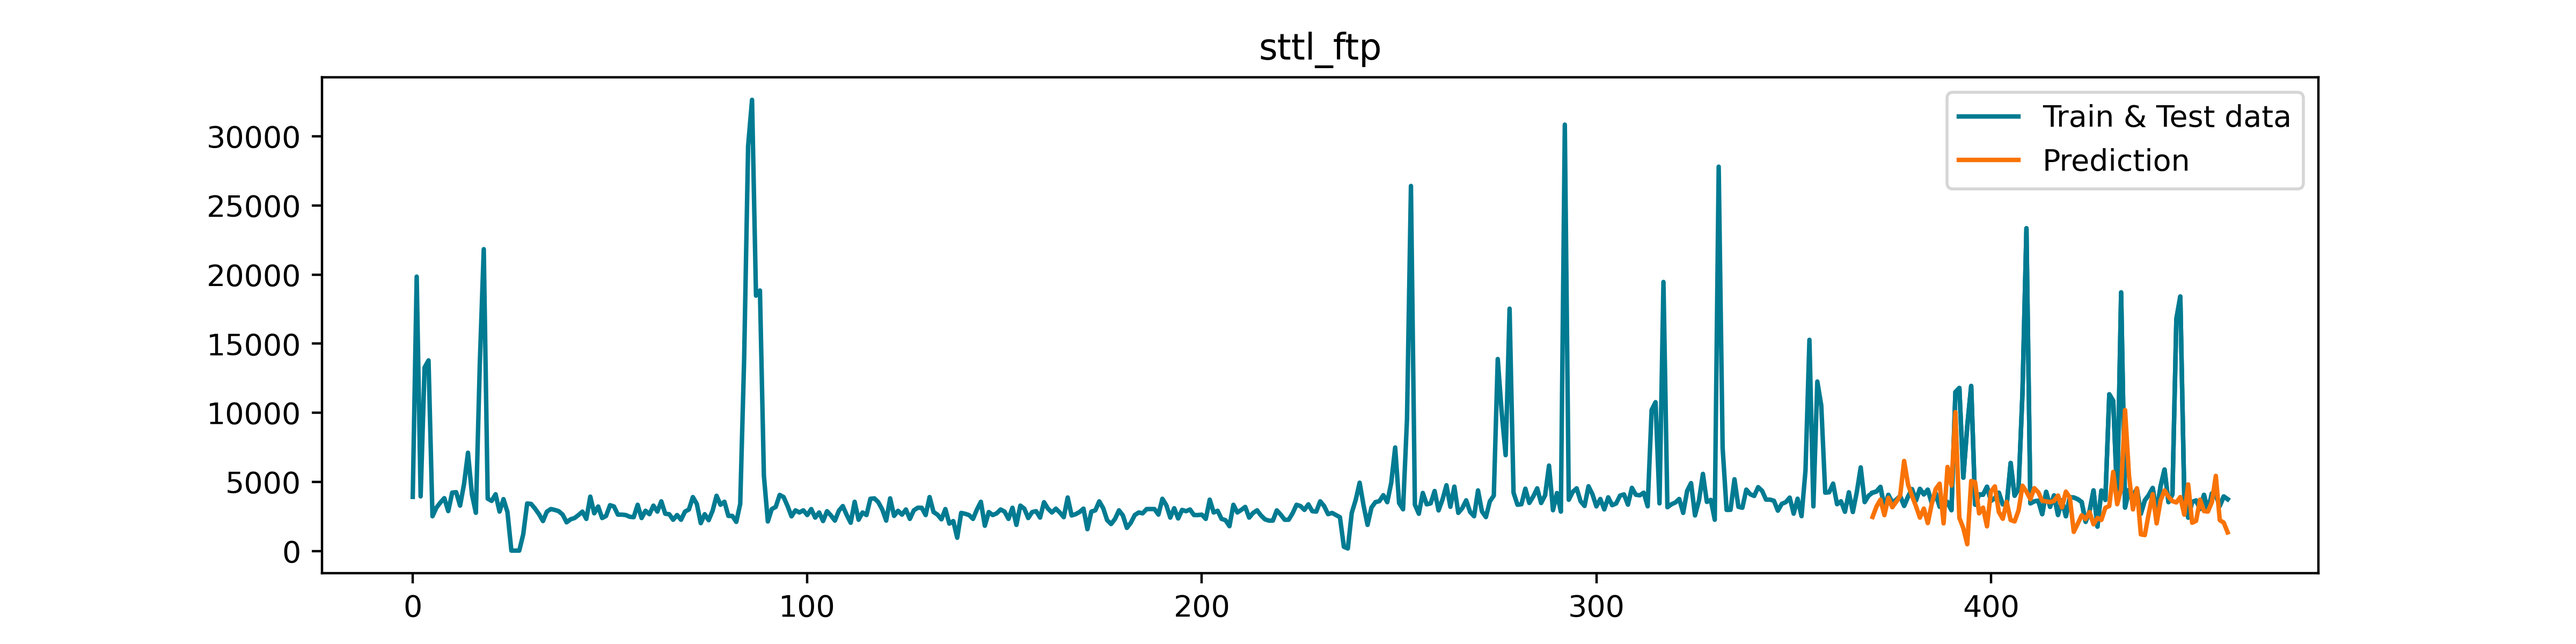
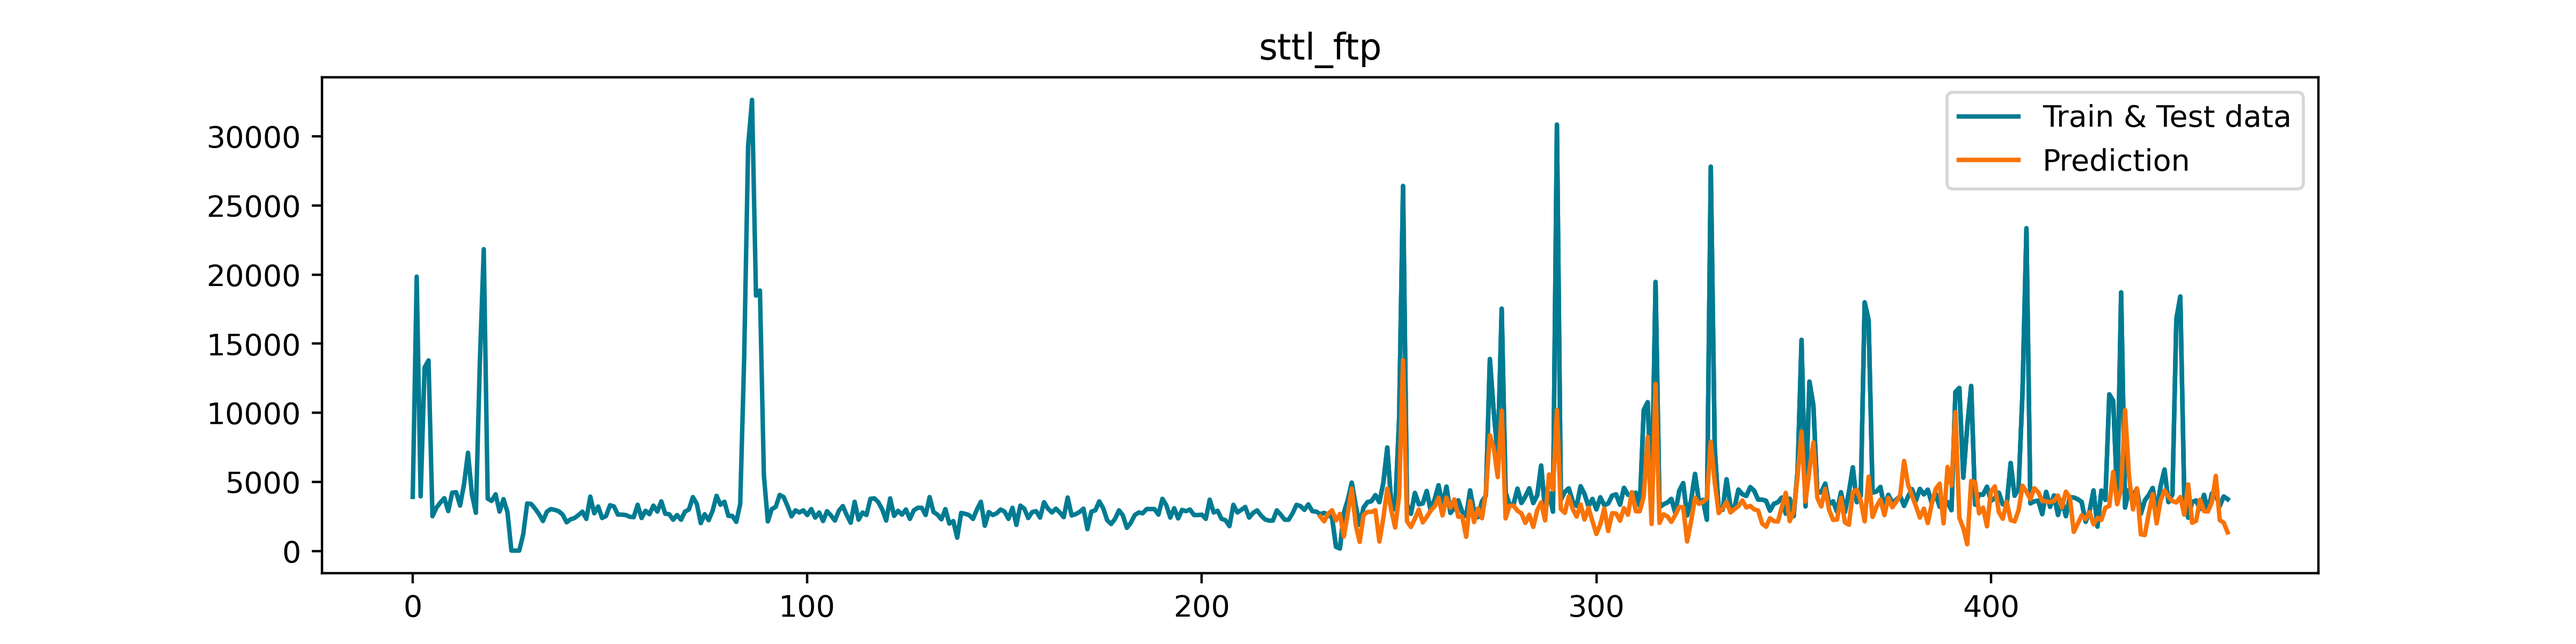
update test split value

Changed region(s): [[0.5, 0.185, 0.75, 0.8633]]

diff --git a/src/data/handle_time_series.py b/src/data/handle_time_series.py
@@ -10,10 +10,11 @@ from sklearn.preprocessing import MinMaxScaler, StandardScaler
 from statsmodels.tsa.seasonal import STL
 
 class TimeseriesHandler:
-    def __init__(self, use_real_data, window_size, data_split):
+    def __init__(self, use_real_data, window_size, data_split, test_data_split):
         self.minmax_scaler = MinMaxScaler(feature_range=(0, 1))
         self.stand_scaler = StandardScaler()
         self.data_split = data_split
+        self.test_data_split = test_data_split
 
         if use_real_data:
             self.df = pd.read_csv(const.REAL_DATASET, sep='\t', usecols=const.REAL_DATASET_FEATURES)
@@ -36,8 +37,8 @@ class TimeseriesHandler:
         self.df = self.stand_scaler.fit_transform(self.df)
 
 
-    def split_dataset(self, df):
-        train_size = int(len(df) * self.data_split)
+    def split_dataset(self, df, data_split):
+        train_size = int(len(df) * data_split)
         train, test = df[:train_size], df[train_size:]
         return train, test
 
@@ -53,8 +54,8 @@ class TimeseriesHandler:
         self.normalize_data()
         self.scale_data()
 
-        train, test = self.split_dataset(self.df)
-        attack_train, attack_test = self.split_dataset(self.attack_df)
+        train, test = self.split_dataset(self.df, self.data_split)
+        attack_train, attack_test = self.split_dataset(self.attack_df, self.test_data_split)
 
         self.train_generator = tf.keras.preprocessing.sequence.TimeseriesGenerator(train, train, length=n_input, batch_size=1)
         self.test_generator = tf.keras.preprocessing.sequence.TimeseriesGenerator(test, test, length=n_input, batch_size=1)

diff --git a/src/config.py b/src/config.py
@@ -1,12 +1,16 @@
+## DATA CONFIG ##
 window_size = 180.0
-n_steps = 2
-patience = 10
-epochs = 300
 dataset_split = 0.8
+test_data_split = 0.5
+n_steps = 2
+stl_decomposition = False
+use_real_data = False
+
+## MODEL CONFIG ##
+model_name = 'CNN'
+epochs = 300
 learning_rate = 0.001
+patience = 10
 dropout_rate = 0.3
 blocks = 12
 optimizer = 'adam'
-model_name = 'CNN'
-stl_decomposition = False
-use_real_data = False
